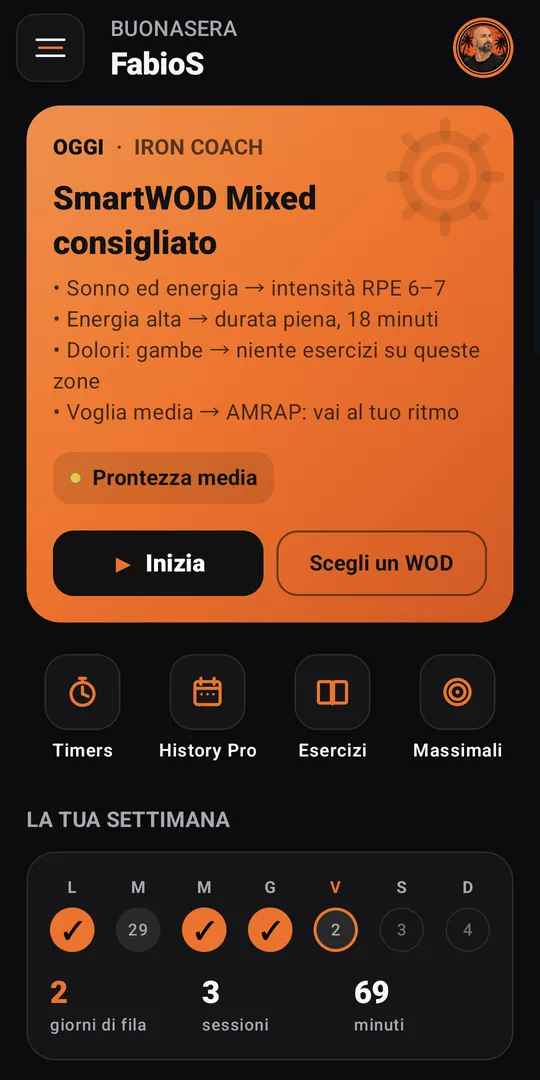
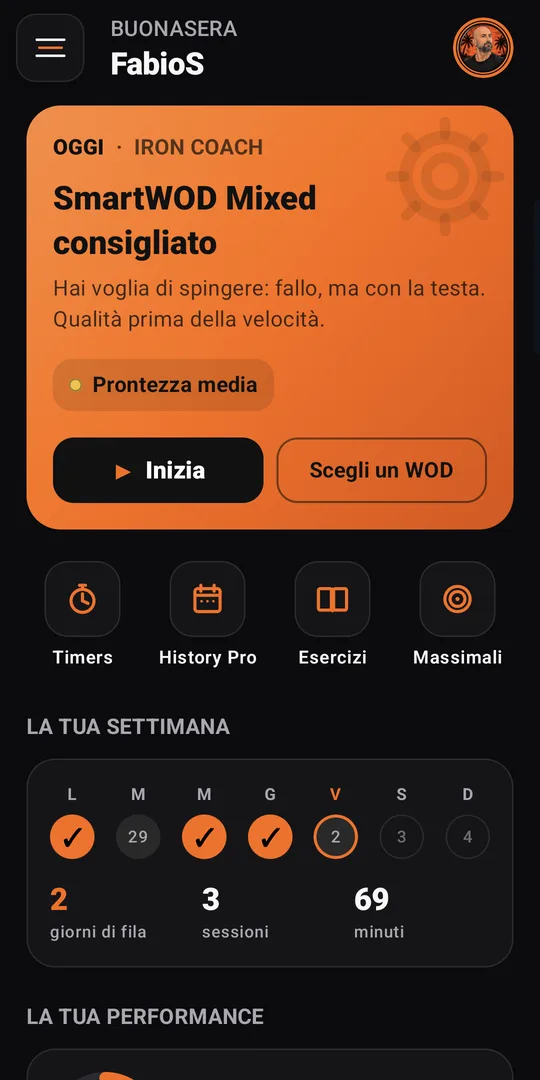
Guida: frase del coach nel check-in, Genera il WOD chiede dove ti alleni, WOD in due parti dai 16 minuti; screenshot home e Iron Coach
Claude-Session: https://claude.ai/code/session_01B6vcT2Bh3pFPGsDXMHdm6f

diff --git a/guida/index.html b/guida/index.html
@@ -200,7 +200,7 @@ const SECTIONS = [
     shots: [['home', { it: 'Home', en: 'Home', es: 'Home' }], ['drawer', { it: 'Menu laterale', en: 'Side menu', es: 'Menú lateral' }]],
     items: [
       { t: { it: 'Oggi e Inizia', en: 'Today and Start', es: 'Hoy y Empezar' },
-        d: { it: 'La scheda arancione propone l\'allenamento del giorno. <b>Inizia</b> chiede dove ti alleni (<b>al box</b>, con <b>la tua attrezzatura</b> del profilo atleta o a <b>corpo libero</b>) e quanto tempo hai, poi genera un WOD su misura per il tuo livello e le tue skill, pronto da avviare o modificare. L\'ultima scelta viene ricordata. <b>Scegli un WOD</b> apre invece la libreria. Dalla stessa scheda fai il check-in del giorno: dopo vedi la tua prontezza a colori e, riga per riga, come il WOD è stato adattato a come stai.', en: 'The orange card suggests today\'s workout. <b>Start</b> asks where you train (<b>at the box</b>, with <b>your equipment</b> from the athlete profile or <b>bodyweight</b>) and how much time you have, then generates a WOD tailored to your level and skills, ready to start or edit. Your last choice is remembered. <b>Pick a WOD</b> opens the library instead. The same card has the daily check-in: afterwards it shows your readiness in color and, line by line, how the WOD was adapted to how you feel.', es: 'La ficha naranja propone el entrenamiento del día. <b>Empezar</b> pregunta dónde entrenas (<b>en el box</b>, con <b>tu material</b> del perfil de atleta o con <b>peso corporal</b>) y cuánto tiempo tienes, y genera un WOD a medida de tu nivel y tus skills, listo para iniciar o editar. Se recuerda la última elección. <b>Elegir un WOD</b> abre en cambio la biblioteca. En la misma ficha haces el check-in del día: después ves tu preparación en colores y, línea por línea, cómo se ha adaptado el WOD a cómo estás.' } },
+        d: { it: 'La scheda arancione propone l\'allenamento del giorno. <b>Inizia</b> chiede dove ti alleni (<b>al box</b>, con <b>la tua attrezzatura</b> del profilo atleta o a <b>corpo libero</b>) e quanto tempo hai, poi genera un WOD su misura per il tuo livello e le tue skill: dai 16 minuti in su in due parti, come in una vera lezione (per esempio EMOM di forza e poi metcon). È pronto da avviare o modificare. L\'ultima scelta viene ricordata. <b>Scegli un WOD</b> apre invece la libreria. Dalla stessa scheda fai il check-in del giorno: dopo vedi la tua prontezza a colori e una frase del coach, e il WOD si adatta a come stai.', en: 'The orange card suggests today\'s workout. <b>Start</b> asks where you train (<b>at the box</b>, with <b>your equipment</b> from the athlete profile or <b>bodyweight</b>) and how much time you have, then generates a WOD tailored to your level and skills: from 16 minutes in two parts, like a real class (for example a strength EMOM, then a metcon). It\'s ready to start or edit. Your last choice is remembered. <b>Pick a WOD</b> opens the library instead. The same card has the daily check-in: afterwards it shows your readiness in color and a coach line, and the WOD adapts to how you feel.', es: 'La ficha naranja propone el entrenamiento del día. <b>Empezar</b> pregunta dónde entrenas (<b>en el box</b>, con <b>tu material</b> del perfil de atleta o con <b>peso corporal</b>) y cuánto tiempo tienes, y genera un WOD a medida de tu nivel y tus skills: desde 16 minutos en dos partes, como en una clase real (por ejemplo EMOM de fuerza y luego metcon). Está listo para iniciar o editar. Se recuerda la última elección. <b>Elegir un WOD</b> abre en cambio la biblioteca. En la misma ficha haces el check-in del día: después ves tu preparación en colores y una frase del coach, y el WOD se adapta a cómo estás.' } },
       { t: { it: 'Settimana e Iron Score', en: 'Week and Iron Score', es: 'Semana e Iron Score' },
         d: { it: 'La settimana da lunedì a domenica con i giorni allenati spuntati, i giorni di fila, le sessioni e i minuti. L\'Iron Score riassume costanza ed esperienza: i livelli più alti arrivano solo con mesi di allenamento.', en: 'The week from Monday to Sunday with trained days ticked, your streak, sessions and minutes. The Iron Score sums up consistency and experience: the top levels only come with months of training.', es: 'La semana de lunes a domingo con los días entrenados marcados, los días seguidos, las sesiones y los minutos. El Iron Score resume constancia y experiencia: los niveles más altos solo llegan con meses de entrenamiento.' } },
       { t: { it: 'Azioni rapide', en: 'Quick actions', es: 'Acciones rápidas' },
@@ -506,7 +506,7 @@ const SECTIONS = [
     shots: [['coach', { it: 'Iron Coach', en: 'Iron Coach', es: 'Iron Coach' }]],
     items: [
       { t: { it: 'Check-in del giorno', en: 'Daily check-in', es: 'Check-in del día' },
-        d: { it: 'Dieci secondi: <b>sonno</b> ed <b>energia</b> su cinque livelli, <b>dolori</b> (nessuno, leggeri, forti) con la zona (gambe, schiena, spalle e braccia, core) e la <b>voglia di spingere</b>. Ogni risposta cambia una parte diversa del WOD di oggi: sonno ed energia l\'intensità (RPE), l\'energia la durata, i dolori tolgono gli esercizi sulla zona indicata e, se forti, i carichi pesanti, la voglia sceglie il formato (EMOM controllato, AMRAP o For Time). Sotto le domande, <b>Il tuo WOD di oggi</b> spiega punto per punto cosa è cambiato e lo genera con un tocco. <b>Fatto</b>, <b>Modifica</b> e <b>Azzera</b> sono subito sotto le domande; il check-in vale per la giornata.', en: 'Ten seconds: <b>sleep</b> and <b>energy</b> on five levels, <b>soreness</b> (none, light, strong) with where (legs, back, shoulders and arms, core) and your <b>drive to push</b>. Each answer changes a different part of today\'s WOD: sleep and energy the intensity (RPE), energy the length, soreness leaves out exercises for that area and, when strong, heavy loads, drive picks the format (controlled EMOM, AMRAP or For Time). Below the questions, <b>Your WOD today</b> explains point by point what changed and generates it with one tap. <b>Done</b>, <b>Edit</b> and <b>Reset</b> sit right under the questions; the check-in lasts for the day.', es: 'Diez segundos: <b>sueño</b> y <b>energía</b> en cinco niveles, <b>dolores</b> (ninguno, leves, fuertes) con la zona (piernas, espalda, hombros y brazos, core) y las <b>ganas de apretar</b>. Cada respuesta cambia una parte distinta del WOD de hoy: sueño y energía la intensidad (RPE), la energía la duración, los dolores quitan los ejercicios de esa zona y, si son fuertes, las cargas pesadas, las ganas eligen el formato (EMOM controlado, AMRAP o For Time). Debajo de las preguntas, <b>Tu WOD de hoy</b> explica punto por punto qué ha cambiado y lo genera con un toque. <b>Hecho</b>, <b>Editar</b> y <b>Borrar</b> están justo debajo de las preguntas; el check-in vale para todo el día.' } },
+        d: { it: 'Dieci secondi: <b>sonno</b> ed <b>energia</b> su cinque livelli, <b>dolori</b> (nessuno, leggeri, forti) con la zona (gambe, schiena, spalle e braccia, core) e la <b>voglia di spingere</b>. Ogni risposta cambia una parte diversa del WOD di oggi: sonno ed energia l\'intensità (RPE), l\'energia la durata, i dolori tolgono gli esercizi sulla zona indicata e, se forti, i carichi pesanti, la voglia sceglie il formato (EMOM controllato, AMRAP o For Time). Sotto le domande, <b>Il tuo WOD di oggi</b> ti dà una frase del coach adatta a come stai; <b>Genera il WOD</b> chiede dove ti alleni e quanto tempo hai, come Inizia in home. <b>Fatto</b>, <b>Modifica</b> e <b>Azzera</b> sono subito sotto le domande; il check-in vale per la giornata.', en: 'Ten seconds: <b>sleep</b> and <b>energy</b> on five levels, <b>soreness</b> (none, light, strong) with where (legs, back, shoulders and arms, core) and your <b>drive to push</b>. Each answer changes a different part of today\'s WOD: sleep and energy the intensity (RPE), energy the length, soreness leaves out exercises for that area and, when strong, heavy loads, drive picks the format (controlled EMOM, AMRAP or For Time). Below the questions, <b>Your WOD today</b> gives you a coach line that fits how you feel; <b>Generate the WOD</b> asks where you train and how long you have, like Start on Home. <b>Done</b>, <b>Edit</b> and <b>Reset</b> sit right under the questions; the check-in lasts for the day.', es: 'Diez segundos: <b>sueño</b> y <b>energía</b> en cinco niveles, <b>dolores</b> (ninguno, leves, fuertes) con la zona (piernas, espalda, hombros y brazos, core) y las <b>ganas de apretar</b>. Cada respuesta cambia una parte distinta del WOD de hoy: sueño y energía la intensidad (RPE), la energía la duración, los dolores quitan los ejercicios de esa zona y, si son fuertes, las cargas pesadas, las ganas eligen el formato (EMOM controlado, AMRAP o For Time). Debajo de las preguntas, <b>Tu WOD de hoy</b> te da una frase del coach según cómo estás; <b>Generar el WOD</b> pregunta dónde entrenas y cuánto tiempo tienes, como Empezar en la Home. <b>Hecho</b>, <b>Editar</b> y <b>Borrar</b> están justo debajo de las preguntas; el check-in vale para todo el día.' } },
       { t: { it: 'Oggi, Settimana, Analisi', en: 'Today, Week, Analysis', es: 'Hoy, Semana, Análisis' },
         d: { it: 'La sessione consigliata, il piano della settimana, i trend e i punteggi con l\'affidabilità dei dati su cui si basano.', en: 'The suggested session, the weekly plan, trends and scores with how reliable the underlying data is.', es: 'La sesión recomendada, el plan de la semana, las tendencias y las puntuaciones con la fiabilidad de los datos en que se basan.' } }
     ],
